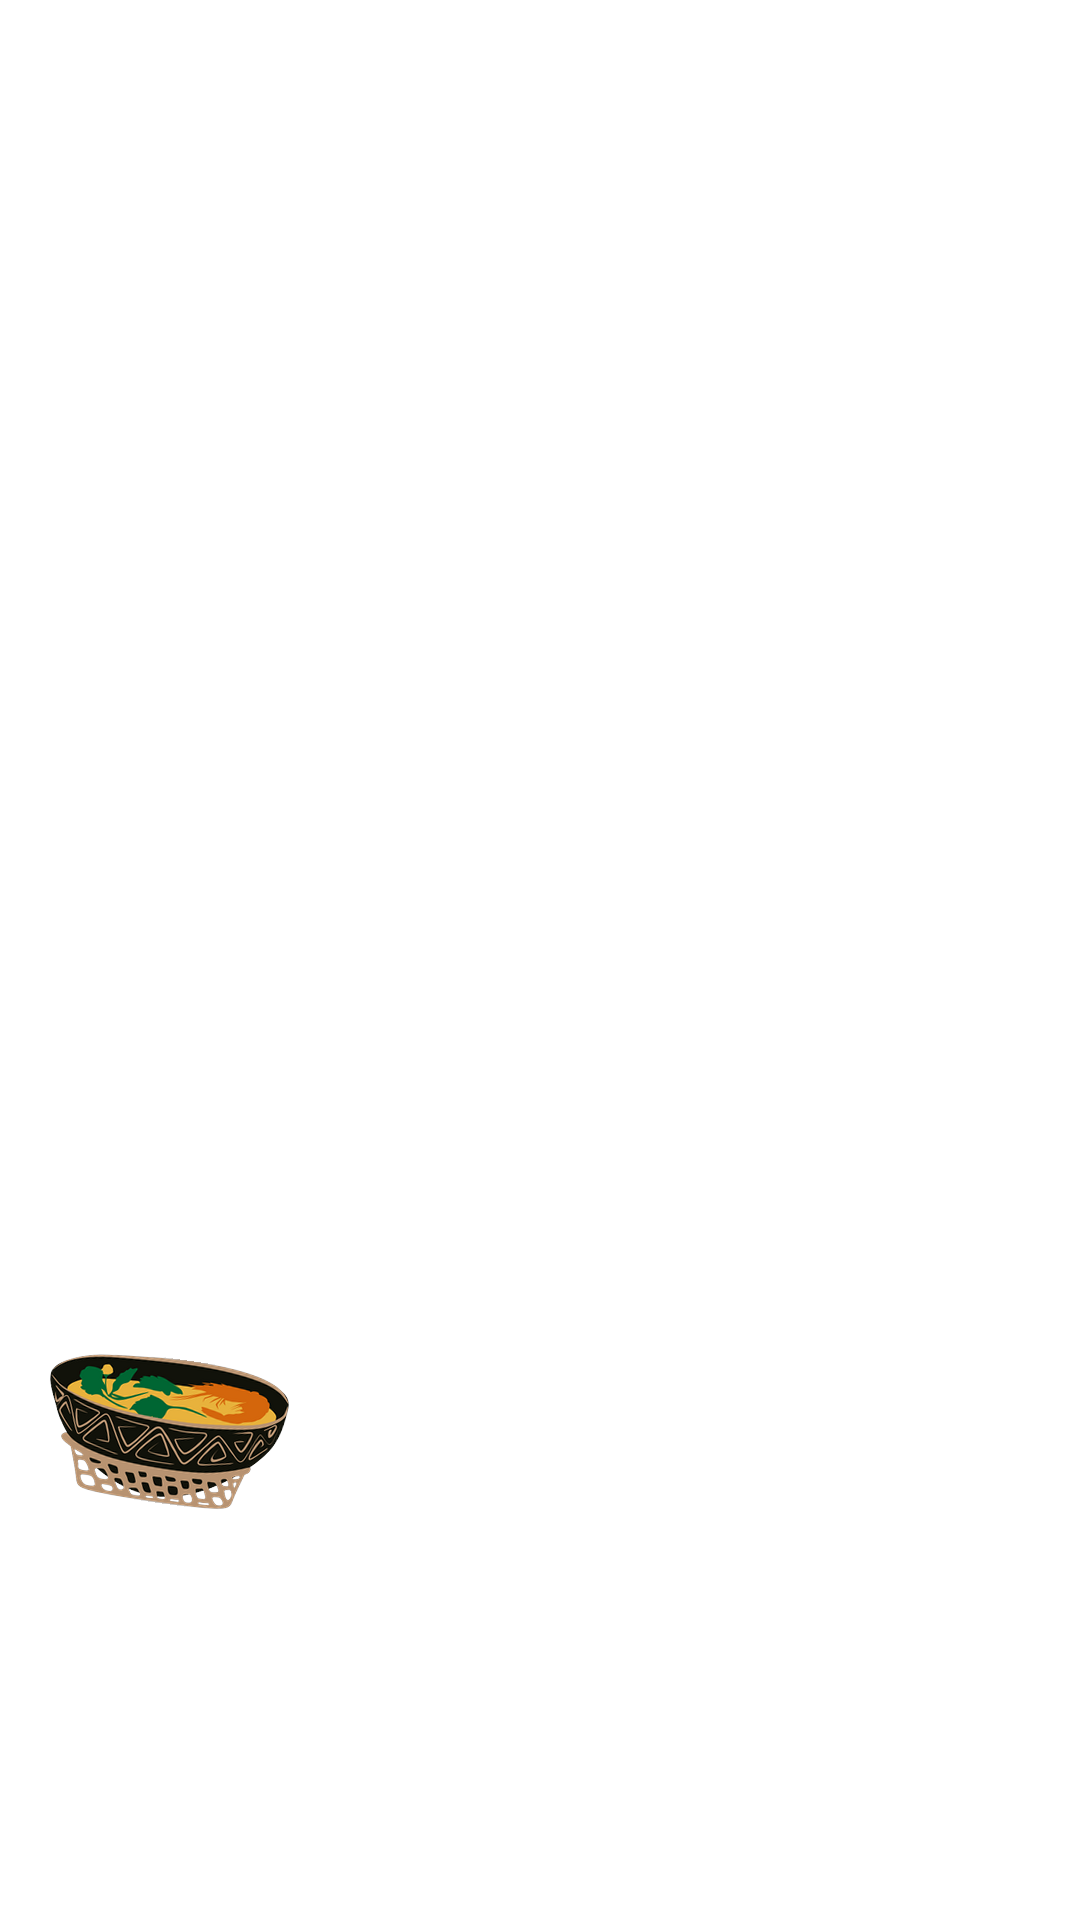
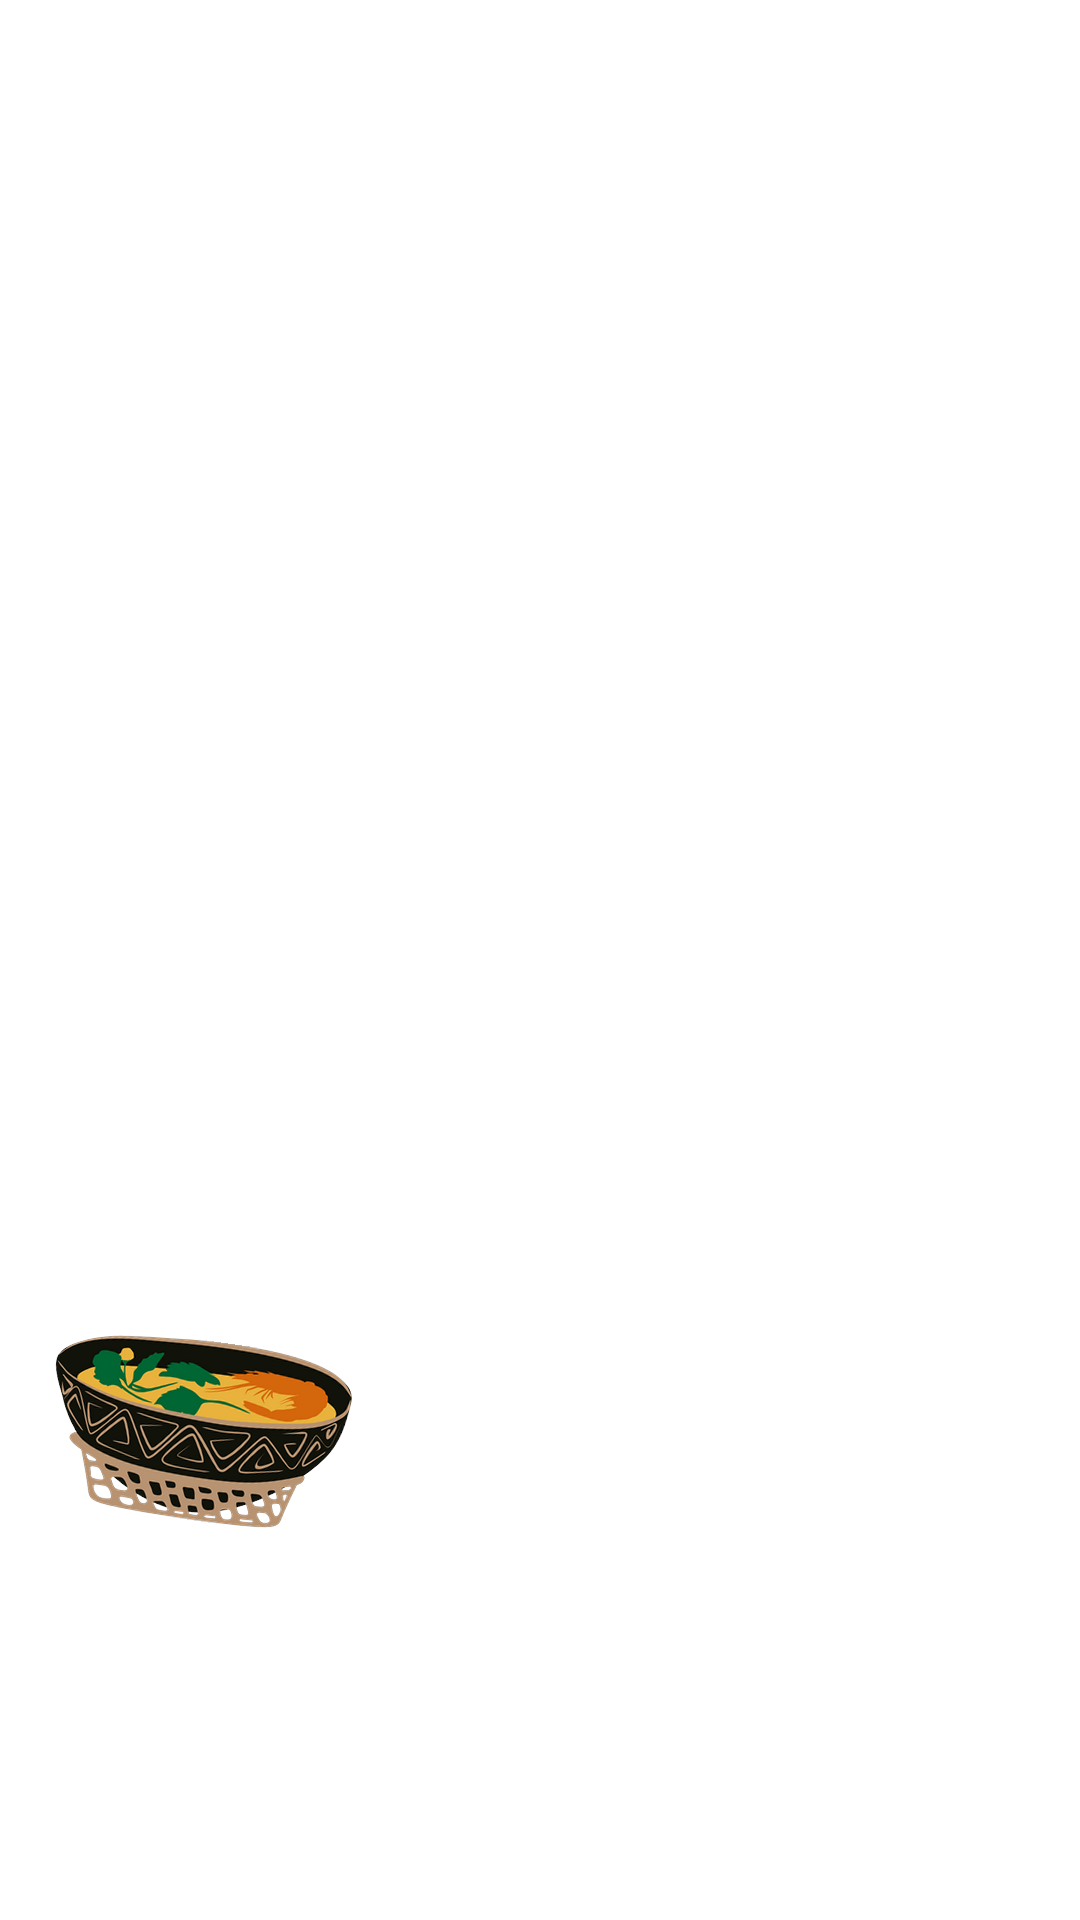
Make the card frame's "Eu fui!" and cuia larger
"Eu fui!" grows from 64 to 88 px on the post and from 74 to 94 px on the
story, and the cuia de tacacá from 210 to 260 px and from 250 to 310 px. The
text now sits in the middle of the room the cuia and the date leave, so
neither crowds it as they grow. Sizes are constants in the frame script.

Changed region(s): [[0.0306, 0.6875, 0.3361, 0.8125]]

diff --git a/scripts/make_frames_cd_norte.py b/scripts/make_frames_cd_norte.py
@@ -21,6 +21,8 @@ KIT = json.loads((BRAND / "brand.json").read_text())
 
 AMEIXA = (0x42, 0x31, 0x4B)
 LARANJA = (0xFF, 0x99, 0x00)
+EU_FUI = {"feed": 88, "story": 94}  # px of the card's "Eu fui!"
+CUIA = {"feed": 260, "story": 310}  # px width of the cuia de tacacá on the card's corner
 BRANCO = (255, 255, 255)
 LILAS = (0xA6, 0xA6, 0xE6)
 SUNSET = ((0xFF, 0x43, 0x53), (0xFF, 0xD2, 0x9A))
@@ -139,16 +141,21 @@ def cartao(fmt: str) -> tuple[Image.Image, Image.Image, dict]:
     draw.rounded_rectangle(card, 22, fill=BRANCO)
     caption_h = 150 if story else 128
     box = [card[0] + 30, card[1] + 30, card[2] - 30, card[3] - caption_h]
-    gradient_text(bg, (card[0] + card[2]) // 2 - (110 if story else 100), card[3] - caption_h + 18,
-                  "Eu fui!", font("PermanentMarker-Regular", 74 if story else 64))
+    date_x = card[2] - 40 - max(text_width(draw, "31.10.2026", font("IBMPlexSans-Bold", 30), 1),
+                                text_width(draw, "Faci Wyden · Belém", font("IBMPlexSans-Regular", 24), 0))
     draw_text(bg, (card[2] - 40 - text_width(draw, "31.10.2026", font("IBMPlexSans-Bold", 30), 1),
                    card[3] - caption_h + 32), "31.10.2026", font("IBMPlexSans-Bold", 30), AMEIXA, 1)
     draw_text(bg, (card[2] - 40 - text_width(draw, "Faci Wyden · Belém", font("IBMPlexSans-Regular", 24), 0),
                    card[3] - caption_h + 74), "Faci Wyden · Belém", font("IBMPlexSans-Regular", 24), (0x69, 0x4D, 0x82))
     draw_text(bg, (w // 2, foot + (40 if story else 30)), HANDLE, font("IBMPlexSans-Bold", 34), LARANJA, 1, "ma")
     fg = Image.new("RGBA", (w, h), (0, 0, 0, 0))
-    cuia = asset("tacaca.png", 250 if story else 210).rotate(-8, expand=True, resample=Image.BICUBIC)
-    fg.paste(cuia, (card[0] - 40, card[3] - caption_h - cuia.height // 2 + 10), cuia)
+    cuia = asset("tacaca.png", CUIA[fmt]).rotate(-8, expand=True, resample=Image.BICUBIC)
+    cuia_x = card[0] - 40
+    fg.paste(cuia, (cuia_x, card[3] - caption_h - cuia.height // 2 + 10), cuia)
+    # "Eu fui!" sits in the middle of the room the cuia and the date leave, so neither crowds it as they grow.
+    cuia_right = cuia_x + cuia.getbbox()[2]
+    gradient_text(bg, (cuia_right + date_x) // 2, card[3] - caption_h + 14,
+                  "Eu fui!", font("PermanentMarker-Regular", EU_FUI[fmt]))
     return bg, fg, {"box": box, "radius": 6, "border": {"width": 0}}
 
 
